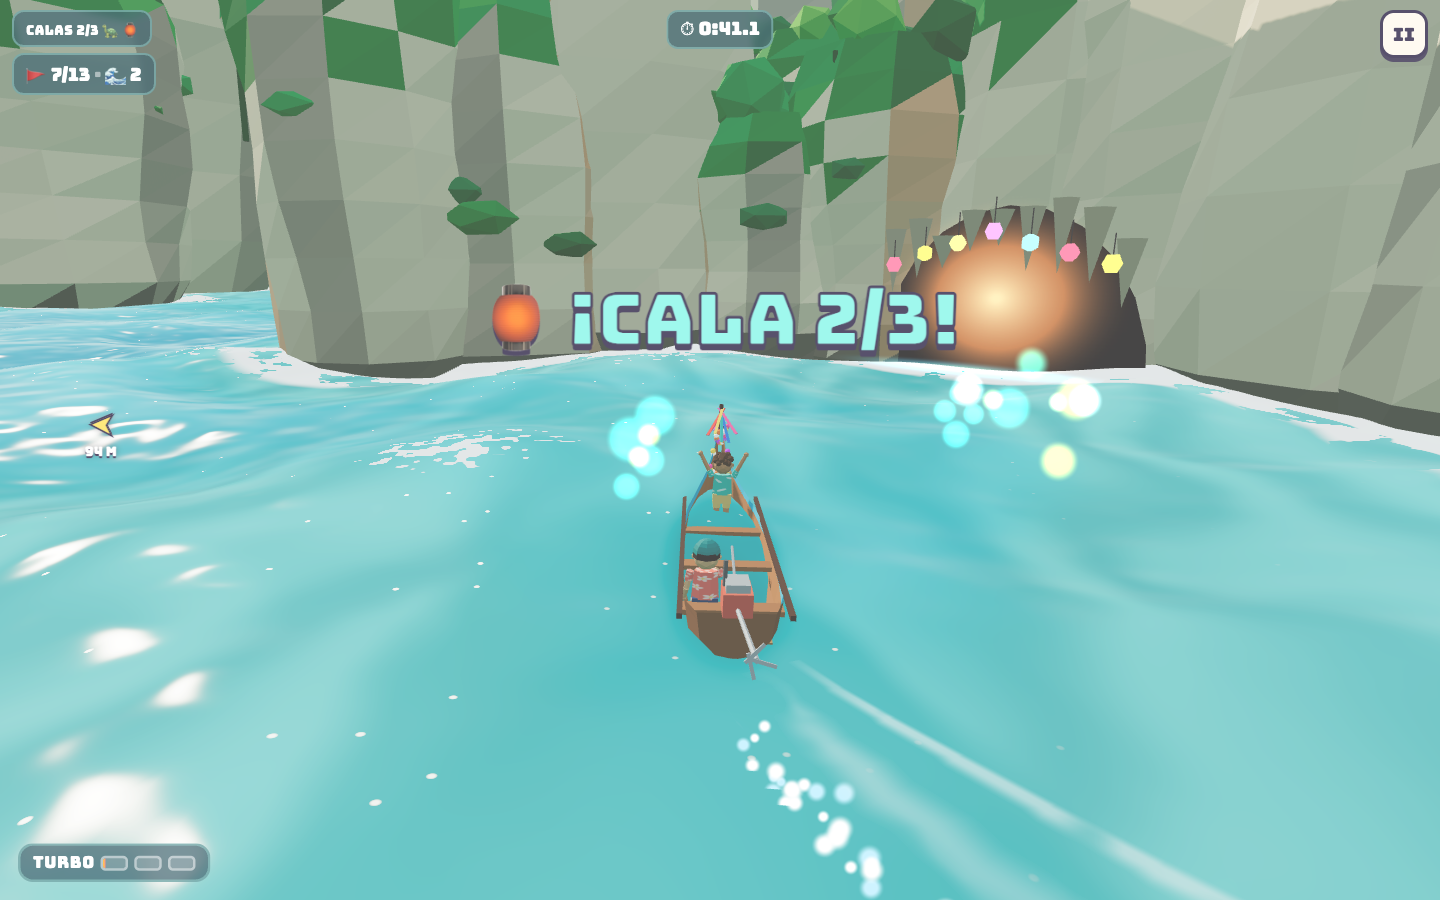
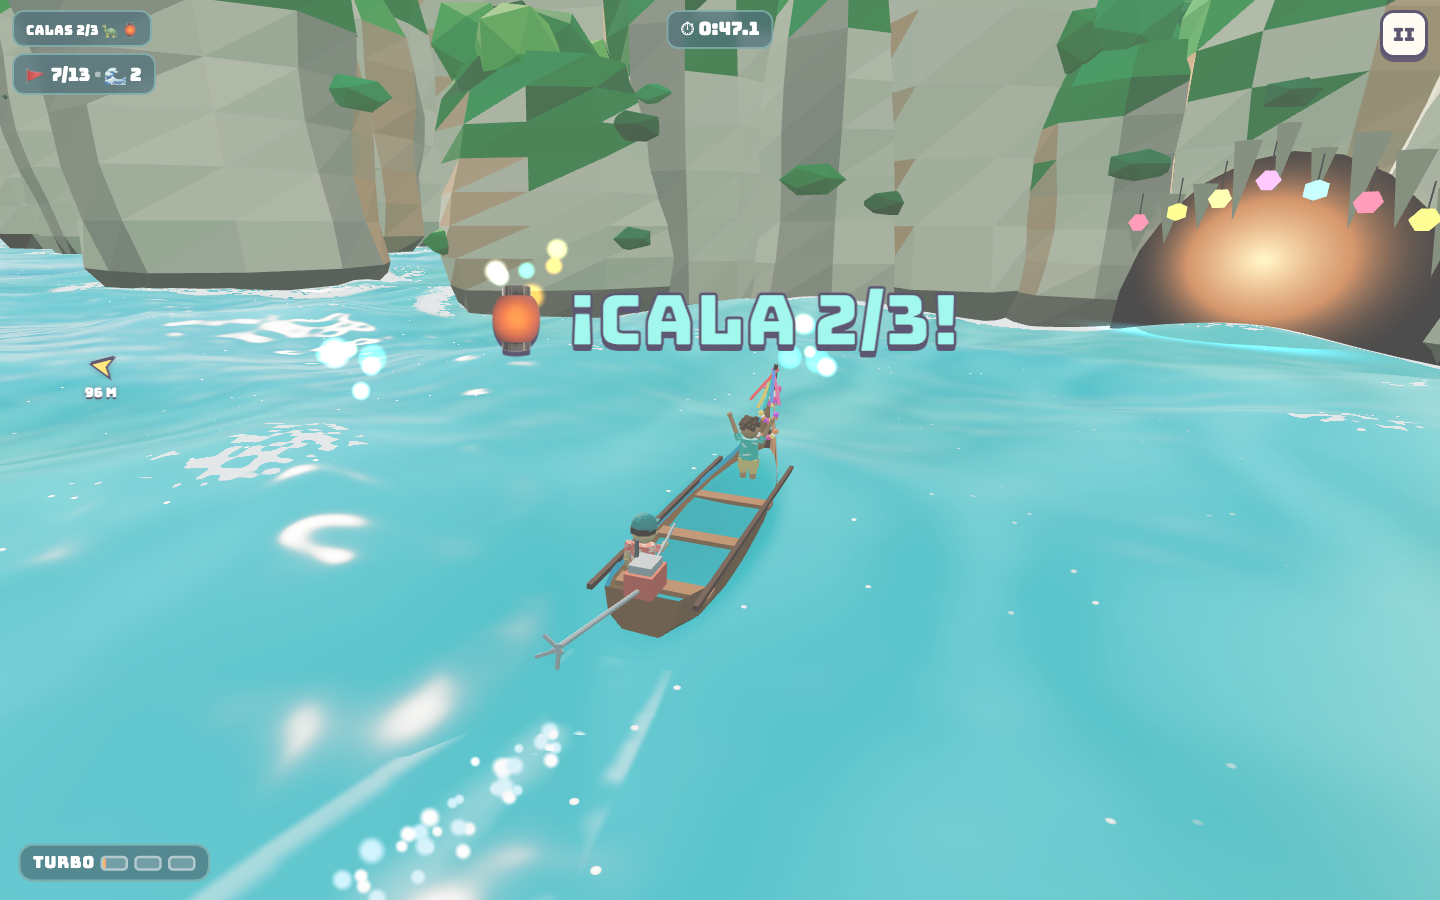
Koh Samui ronda 2: agua de calas turquesa con fondo de arena, delfines, serie de olas gigantes, sin negros en 1440

diff --git a/src/stages/samui/index.js b/src/stages/samui/index.js
@@ -102,13 +102,13 @@ export default {
 
     // ───────── olas grandes (series que llegan por el canal) ─────────
     const series = [];
-    for (let s = 240; s < L - 90; s += ctx.rng.range(115, 160)) {
+    for (let s = 220; s < L - 90; s += ctx.rng.range(85, 120)) {
       if (calas.some((c) => Math.abs(c.s - s) < 70)) continue;
       series.push({ s, n: ctx.rng.chance(0.4) ? 2 : 3, spawned: false });
     }
     // la SERIE GIGANTE: 4 olas enormes encadenadas entre la 2.ª y la 3.ª cala
     const giantS = (calas[1].s + calas[2].s) / 2;
-    for (let i = series.length - 1; i >= 0; i--) if (series[i].s > giantS - 240 && series[i].s < giantS + 120) series.splice(i, 1);
+    for (let i = series.length - 1; i >= 0; i--) if (series[i].s > giantS - 240 && series[i].s < giantS + 200) series.splice(i, 1);
     series.push({ s: giantS, n: 4, giant: true, spawned: false });
     series.sort((a, b) => a.s - b.s);
     // delfines entre la salida y la 1.ª-2.ª cala
@@ -120,7 +120,7 @@ export default {
       const free = ridges.filter((r) => !r.active);
       if (free.length < se.n) return false;
       for (let k = 0; k < se.n; k++) {
-        const r = free[k], s = se.s + k * (se.giant ? 22 : 17), a = path.at(s);
+        const r = free[k], s = se.s + k * (se.giant ? 46 : 17), a = path.at(s);
         Object.assign(r.b, { cx: a.x, cz: a.z, dx: -a.tx, dz: -a.tz, amp: 0 });
         Object.assign(r, { active: true, age: -k * 0.25, target: se.giant ? 2.0 : 1.35 + ctx.rng.range(-0.1, 0.15), giant: !!se.giant, prevAl: 999, done: false, dying: false });
       }
@@ -153,7 +153,7 @@ export default {
           [a1.x + a1.nx * c.side * 10, a1.z + a1.nz * c.side * 10],
         ];
         const idx = wps.findIndex((w) => w.s > c.s);
-        wps.splice(idx < 0 ? wps.length : idx, 0, ...pts.map(([x, z], k) => ({ x, z, s: c.s - 40 + k * 13, cala: c.idx })));
+        wps.splice(idx < 0 ? wps.length : idx, 0, ...pts.map(([x, z], k) => ({ x, z, s: c.s - 40 + k * 13, cala: k === 0 || k === 6 ? -1 : c.idx })));
       }
     }
     let wpI = 0;
@@ -163,7 +163,7 @@ export default {
         const w = wps[wpI];
         const d = Math.hypot(w.x - st.x, w.z - st.z);
         const behind = (w.x - st.x) * Math.sin(st.yaw) + (w.z - st.z) * Math.cos(st.yaw) < 0;
-        if (d < (w.cala >= 0 ? 9 : 12) || (w.cala < 0 && w.s < st.s - 3) || (w.cala >= 0 && behind && d < 18)) wpI++; else break;
+        if (d < (w.cala >= 0 ? 9 : 12) || (w.cala < 0 && w.s < st.s - 3) || (w.cala >= 0 && behind && d < 26)) wpI++; else break;
       }
       let w = wps[wpI];
       // perdido lejos del recorrido (y no en una cala): vuelve al centro del canal
@@ -192,8 +192,8 @@ export default {
         const rx = bt.x - st.x, rz = bt.z - st.z, ahead = rx * fx_ + rz * fz_, side = -rx * fz_ + rz * fx_;
         if (ahead > 0 && ahead < 24 && Math.abs(side) < 6) { steer += (side > 0 ? -1 : 1) * 1.2; blocked = true; }
       }
-      pilot.steer = clamp(steer, -1, 1);
-      pilot.brake = Math.abs(diff) > 1.1 && st.speed > 12;
+      pilot.steer = st.air ? 0 : clamp(steer, -1, 1);
+      pilot.brake = (Math.abs(diff) > 1.1 && st.speed > 12) || (w.cala >= 0 && (Math.abs(diff) > 0.4 || Math.hypot(w.x - st.x, w.z - st.z) < 22) && st.speed > 14);
       pilot.turbo = st.turbo >= 0.33 && st.turboT <= 0 && Math.abs(diff) < 0.12 && !blocked && w.cala < 0 && !st.air;
     }
 
@@ -226,8 +226,8 @@ export default {
       get gate() { return st.gate; }, gates: gates.length, get gatesOk() { return st.gatesOk; },
       get calas() { return st.calas; }, get olas() { return st.olas; }, get speed() { return st.speed; }, get turbo() { return st.turbo; },
       get air() { return st.air; }, get running() { return st.running; }, get done() { return st.done; }, get win() { return st.win; }, get stars() { return st.stars; },
-      get x() { return st.x; }, get z() { return st.z; }, get yaw() { return st.yaw; }, get rockHits() { return st.rockHits; }, get boatHits() { return st.boatHits; },
-      goodTime, pilot, debugCam: null, get hitLog() { return st.hitLog; },
+      get x() { return st.x; }, get z() { return st.z; }, get yaw() { return st.yaw; }, get rockHits() { return st.rockHits; }, get dolphins() { return st.dolphins || 0; }, get combo() { return st.combo || 0; }, get giant() { return !!st.giantOn; }, get dolphinsOn() { return dolphins.state.on && !dolphins.state.done; }, get dolDbg() { return { st: dolphins.state, s0: dolphinS0, pod: dolphins.pod.map((d) => [Math.round(d.x), Math.round(d.y), Math.round(d.z), d.group.visible]) }; }, get ev() { return st.ev; }, get boatHits() { return st.boatHits; },
+      goodTime, pilot, debugCam: null, get hitLog() { return st.hitLog; }, get track() { return st.track; },
       debugInfo: () => ({ calas: calas.map((c) => ({ x: c.x, z: c.z, s: c.s, back: c.back, entry: c.entry })), gates: gates.map((g) => ({ x: g.x, z: g.z })), start: { x: start.x, z: start.z }, monkey: world.monkeyRock, boats: world.boats.map((b) => ({ x: b.x, z: b.z })), anchored: world.anchored.map((b) => ({ x: b.x, z: b.z })) }),
     };
     window.__ruta.etapa = etapa;
@@ -283,6 +283,7 @@ export default {
     function land() {
       st.air = false;
       const clean = st.airT > 0.28 && Math.abs(st.steer) < 0.5;
+      (st.ev = st.ev || []).push(['L', Math.round(st.s), +st.airT.toFixed(2), +st.steer.toFixed(2), st.lastGiant ? 'G' : '']);
       splash(st.x, st.y, st.z, clean ? 30 : 44, clean ? 4 : 6);
       audio.sfx('splash');
       if (clean) {
@@ -349,6 +350,7 @@ export default {
       fx.update(dt); sparkle.update(dt);
       const playing = st.running && !st.done;
       runPilot();
+      if (st.running && (st._lt = (st._lt || 0) + dt) > 5) { st._lt = 0; (st.track = st.track || []).push([Math.round(st.t), Math.round(st.s), Math.round(st.lat), Math.round(st.speed), wpI]); }
 
       // ── control ──
       let steerIn = 0, braking = false;
@@ -377,6 +379,8 @@ export default {
       // ── velocidad y giro ──
       let target = 0;
       if (playing) target = braking ? BRAKE_V : turboOn ? TURBO_V : CRUISE;
+      // aguas tranquilas de las calas: bajío, se va más despacio
+      if (playing && calas.some((c) => Math.hypot(c.x - st.x, c.z - st.z) < CALA_R + 2)) target = Math.min(target, 13);
       else if (st.done) target = 0;
       const k = braking ? 2.6 : turboOn ? 2.4 : st.speed < target ? 0.9 : 0.6;
       if (!st.air) st.speed = damp(st.speed, target, k, dt);
@@ -426,9 +430,10 @@ export default {
         if (!r.done && r.prevAl > 0 && r.prevAl < 50 && al <= 0 && Math.abs(la) < BIG.half - 3 && !st.air && b.amp > 0.6 && playing) {
           r.done = true;
           const cosA = -(fxv * b.dx + fzv * b.dz);
+          (st.ev = st.ev || []).push(['X', Math.round(st.s), +cosA.toFixed(2), Math.round(st.speed), r.giant ? 'G' : '']);
           if (st.speed > 13 && cosA > 0.8) launch((4 + st.speed * 0.27) * (r.giant ? 1.22 : 1), r.giant);
           else if (st.speed > 6) {
-            st.air = true; st.airT = 0; st.vy = 2.6; st.speed *= 0.85;
+            st.air = true; st.airT = 0; st.vy = 2.6; st.speed *= 0.85; st.lastGiant = !!r.giant;
             splash(st.x, st.y, st.z, 14, 3);
             if (cosA <= 0.8) ctx.shout('¡Recta, recta!', { size: 'peque', color: '#9ad7ff' });
           }
@@ -547,10 +552,20 @@ export default {
       if (cam.orbitT > 0) cam.orbitT -= realDt;
       cam.orbit = damp(cam.orbit, cam.orbitT > 0 ? 1 : 0, 1.5, realDt);
       cam.yaw += angleDiff(cam.yaw, st.yaw * 0.6 + (st.yaw + angleDiff(st.yaw, st.velYaw)) * 0.4) * (1 - Math.exp(-4 * dt));
-      let cy = cam.yaw + cam.orbit * cam.orbitSide * 0.8;
+      let cy = cam.yaw + cam.orbit * cam.orbitSide * (camera.aspect < 1 ? 0.5 : 0.8);
       let dist = 8.8 + st.speed * 0.07 + cam.orbit * 2.5, hgt = 4.6 + cam.orbit * 1.2 - (st.air ? 0.4 : 0);
-      if (!st.running && !st.done) { cy = st.yaw + Math.PI + 0.75 + Math.sin(tAll * 0.3) * 0.08; dist = 9.5; hgt = 2.8; }
-      if (st.done) { cam.finishA += dt * 0.3; cy = st.yaw + Math.PI * 0.75 + cam.finishA; dist = 12; hgt = 4.2; }
+      if (!st.running && !st.done) { cy = st.yaw + Math.PI + 0.75 + Math.sin(tAll * 0.3) * 0.08; dist = 9.5 / Math.min(1, camera.aspect * 1.4); hgt = 2.8 + (dist - 9.5) * 0.12; }
+      if (st.done) {
+        if (cam.finishYaw === undefined) {
+          // ángulo de la cámara final que no se meta en las rocas
+          for (const off of [Math.PI - 0.7, Math.PI + 0.7, 0.9, -0.9, Math.PI, 0.3]) {
+            const yy = st.yaw + off, px = st.x - Math.sin(yy) * 12, pz = st.z - Math.cos(yy) * 12;
+            if (world.near(px, pz).every((o) => Math.hypot(px - o.x, pz - o.z) > o.r * 1.35 + 3)) { cam.finishYaw = yy; break; }
+          }
+          if (cam.finishYaw === undefined) cam.finishYaw = st.yaw;
+        }
+        cam.finishA += dt * 0.06; cy = cam.finishYaw + cam.finishA; dist = 12 / Math.min(1, camera.aspect * 1.4); hgt = 5;
+      }
       let cx = st.x - Math.sin(cy) * dist, cz = st.z - Math.cos(cy) * dist;
       // que la cámara no se meta dentro de las rocas
       for (const o of world.near(cx, cz)) {
@@ -561,7 +576,8 @@ export default {
       tmpV.set(cx, camH, cz);
       camera.position.lerp(tmpV, 1 - Math.exp(-(cam.orbit > 0.02 ? 3 * realDt : 6 * dt)));
       const intro = !st.running && !st.done ? 1 : 0;
-      camera.lookAt(st.x + fxv * 8 * (1 - cam.orbit) * (1 - intro) - fzv * 1.6 * intro, st.y + 1.5 - intro * 0.3, st.z + fzv * 8 * (1 - cam.orbit) * (1 - intro) + fxv * 1.6 * intro);
+      const ahead = Math.pow(1 - cam.orbit, 3) * (st.done ? 0 : 1);
+      camera.lookAt(st.x + fxv * 8 * ahead * (1 - intro) - fzv * 1.6 * intro, st.y + 1.5 - intro * 0.3, st.z + fzv * 8 * ahead * (1 - intro) + fxv * 1.6 * intro);
       // flecha de pantalla hacia la siguiente boya
       const ngt = gates[st.gate];
       if (playing && ngt && !etapa.debugCam) {

diff --git a/src/stages/samui/delfines.js b/src/stages/samui/delfines.js
@@ -17,7 +17,7 @@ function buildDolphin() {
   return { group: g, tail };
 }
 
-export function createDolphins(scene, { s0, length = 230, speed = 13.5, lanes = [-8, -1, 7] }) {
+export function createDolphins(scene, { s0, length = 230, speed = 15, lanes = [-6, 0, 6] }) {
   const pod = lanes.map((lane, i) => { const d = buildDolphin(); d.group.visible = false; scene.add(d.group); return { ...d, lane, ph: i * 0.37, given: false, wasAir: false, x: 0, y: -3, z: 0 }; });
   const state = { on: false, done: false, s: s0, t: 0, given: 0 };
   return {
@@ -26,12 +26,13 @@ export function createDolphins(scene, { s0, length = 230, speed = 13.5, lanes = 
     update(dt, t, boat, path, sea, cb) {
       if (state.done) return;
       if (!state.on) {
-        if (boat.s > s0 - 75 && boat.s < s0 + 40) { state.on = true; state.s = s0; cb.start(); pod.forEach((d) => { d.group.visible = true; }); }
+        if (boat.s > s0 - 75 && boat.s < s0 + 80 && Math.abs(boat.lat) < 22) { state.on = true; state.s = boat.s + 26; cb.start(); pod.forEach((d) => { d.group.visible = true; }); }
         else return;
       }
       state.t += dt;
-      state.s += speed * dt;
-      const ending = state.s > s0 + length || state.t > 26;
+      // nadan a la par de la barca y se van quedando atrás poco a poco: siempre los alcanzas
+      state.s = Math.max(state.s - 2 * dt, boat.s + 26 - state.t * 4.5);
+      const ending = state.t > 14;
       let anyVisible = false;
       for (const d of pod) {
         const a = path.at(state.s + d.ph * 6);
@@ -52,7 +53,7 @@ export function createDolphins(scene, { s0, length = 230, speed = 13.5, lanes = 
         if (air !== d.wasAir && !ending) cb.splash(x, h, z);
         d.wasAir = air;
         if (y > h - 1.4) anyVisible = true;
-        if (!d.given && !ending && y > h - 0.6 && Math.hypot(boat.x - x, boat.z - z) < 7) { d.given = true; state.given++; cb.gift(d); }
+        if (!d.given && !ending && y > h - 1.7 && Math.hypot(boat.x - x, boat.z - z) < 10) { d.given = true; state.given++; cb.gift(d); }
       }
       if (ending && !anyVisible) { state.done = true; pod.forEach((d) => { d.group.visible = false; }); }
     },

diff --git a/src/stages/samui/mundo.js b/src/stages/samui/mundo.js
@@ -7,8 +7,8 @@ import { SKINS, HAIRS, SHIRTS } from '../../core/chars.js';
 import { buildBoat } from './barca.js';
 
 export const CHANNEL = 28;     // media anchura del canal libre
-export const CALA_R = 24;      // radio del anillo de rocas de una cala
-export const CALA_OFF = 64;    // distancia del centro de la cala al recorrido
+export const CALA_R = 27;      // radio del anillo de rocas de una cala
+export const CALA_OFF = 68;    // distancia del centro de la cala al recorrido
 const GAP = 0.8;               // ángulo de las bocas de la cala respecto al canal
 const clamp = (v, a, b) => (v < a ? a : v > b ? b : v);
 const col = (c) => new THREE.Color(c);
@@ -326,7 +326,7 @@ export function buildWorld({ scene, rng, vr, quality, makeCharacter }) {
     const angDist = (a, b) => Math.abs(Math.atan2(Math.sin(a - b), Math.cos(a - b)));
     let edgeA = null, edgeB = null;
     for (let a = 0; a < Math.PI * 2 - 0.01; a += 0.3) {
-      if (angDist(a, aEntry) < 0.56 || angDist(a, aExit) < 0.56) continue;
+      if (angDist(a, aEntry) < 0.62 || angDist(a, aExit) < 0.6) continue;
       const r = 5.6 + rng() * 1.8, rr = CALA_R + r * 0.55;
       const x = c.x + Math.cos(a) * rr, z = c.z + Math.sin(a) * rr;
       const h = 16 + rng() * 18;
